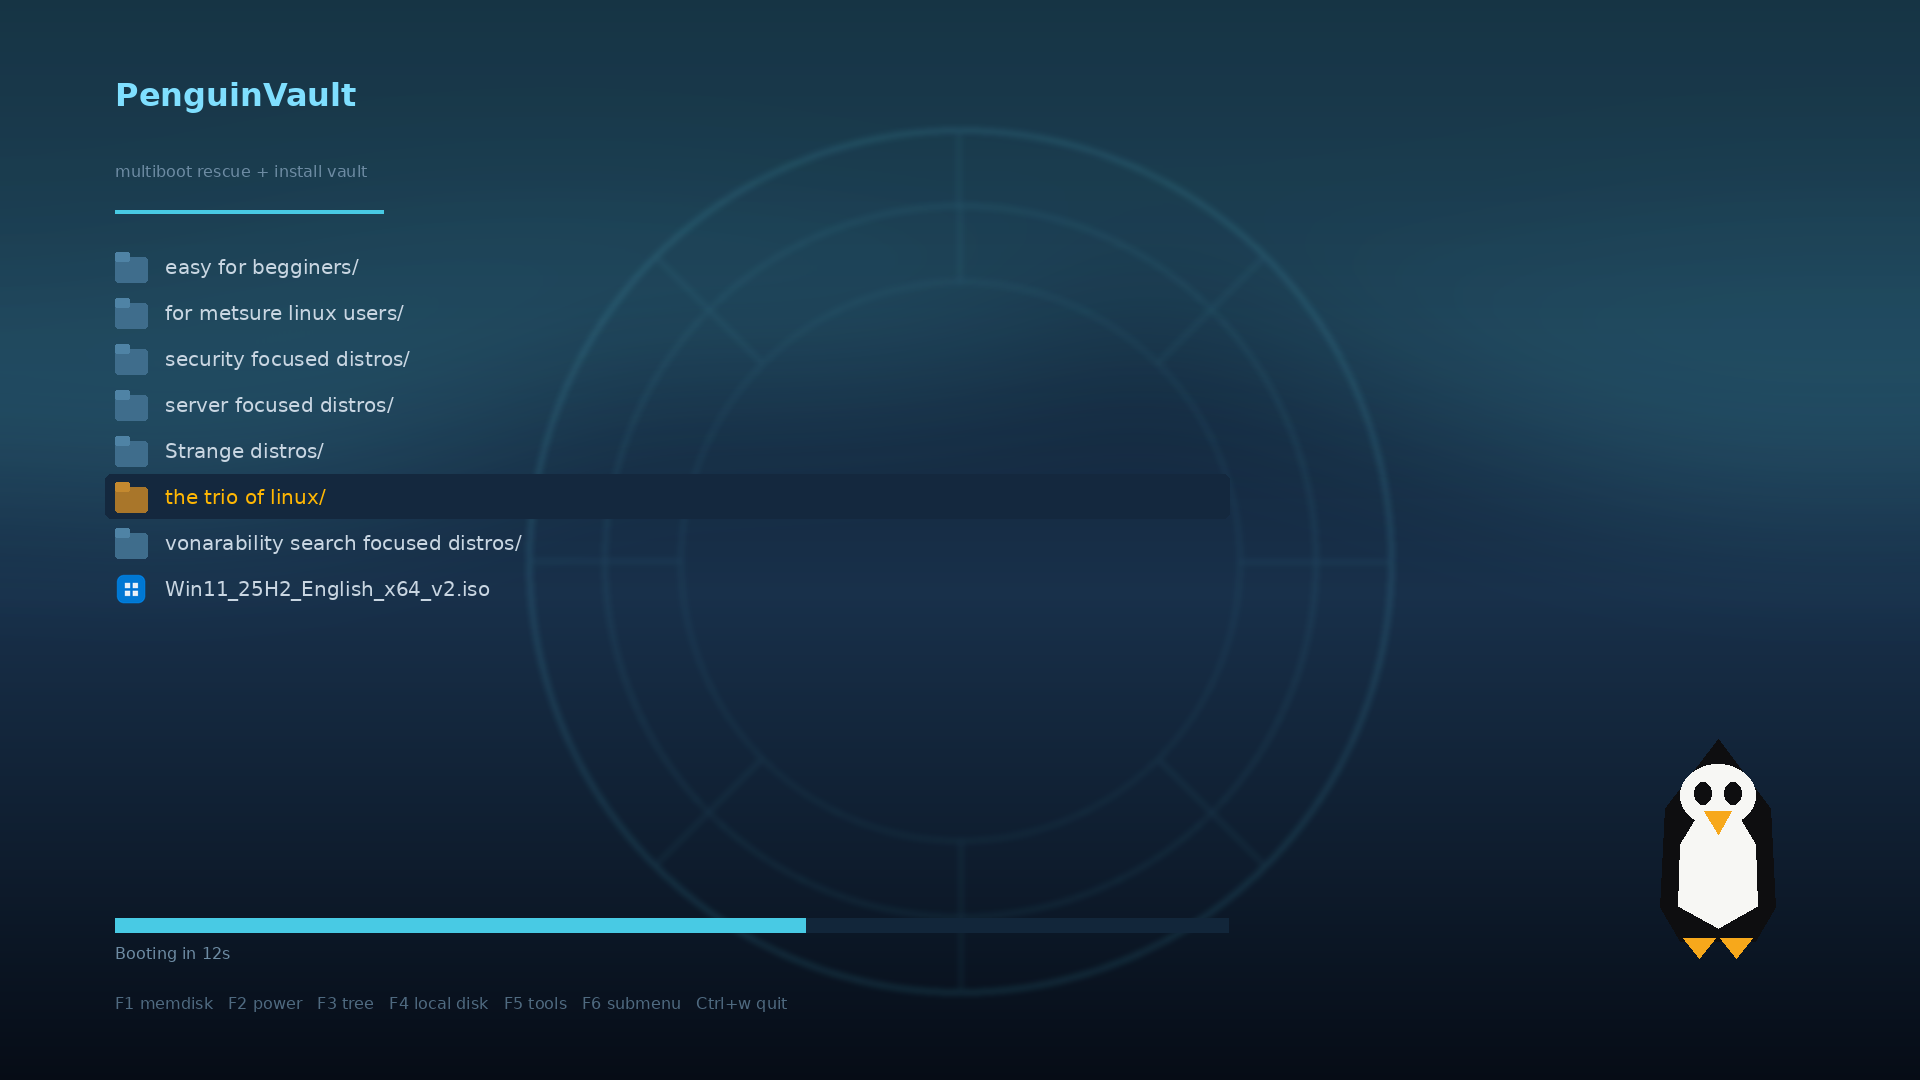
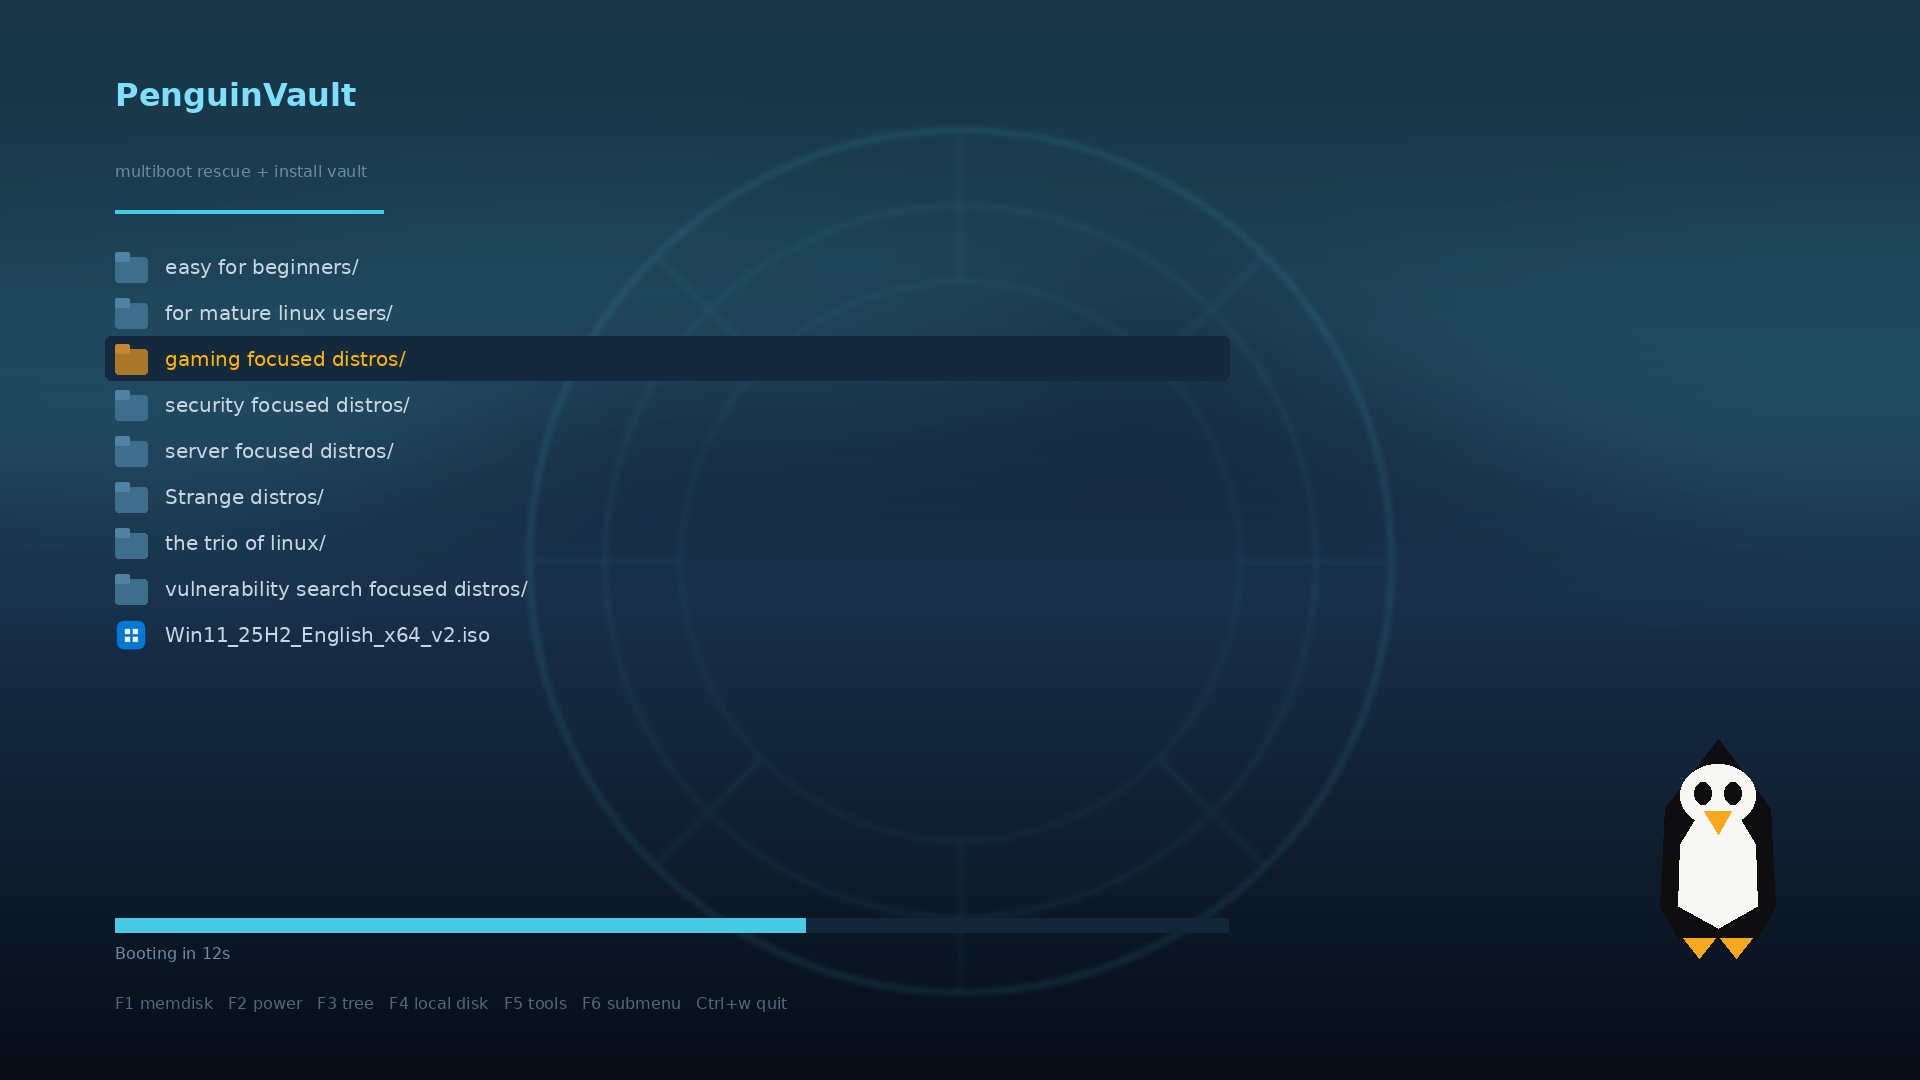
Add gaming distros, NTFS conversion, SteamOS fetcher; fix folder-name typos
Gaming: a gaming-focused set, all AMD/Intel builds rather than the
vendor-driver spins, since proprietary drivers can be layered on after
install — CachyOS (SHA256 verified), PikaOS Nest KDE (upstream publishes
no checksum, so verified by ISO9660 magic and boot signature instead),
and Bazzite stable amd64 (SHA256 verified). Five new icons and the
matching menu_class rules.

SteamOS needed its own script. Valve publishes no ISO: the download is a
bzip2-compressed raw disk image meant for Rufus/Etcher, which Ventoy
cannot boot compressed. fetch-steamos.sh streams the download through the
decompressor so the 3 GB archive is never stored, watches free space and
aborts rather than filling the drive, and sanity-checks the result's size
and 0x55AA boot signature — Valve publishes no checksum to verify against.
Since SteamOS 3.8 that image installs on generic PCs, with an AMD GPU.

convert-to-ntfs.sh: exFAT caps volume labels at 11 characters, so
'PenguinVault' (12) can only ever be the label on NTFS. The script copies
the partition off, checksums it, reformats, restores, verifies against the
manifest, and reapplies the theme — never deleting the staging copy, so a
failure at any stage still leaves a full verified copy.

Typos: make_preview.py had the drive's misspelled folder names baked in
('begginers'). Corrected there and on the drive itself
(vonarability -> vulnerability, begginers -> beginners, metsure -> mature).
Repo now passes codespell.

Changed region(s): [[0.0312, 0.275, 0.4375, 0.6111]]

diff --git a/scripts/make_icons.py b/scripts/make_icons.py
@@ -217,6 +217,42 @@ def chrome_o(d, col=INK):
     d.ellipse([C - rr, C - rr, C + rr, C + rr], fill=col)
 
 
+def chevrons(d, col=INK):
+    """Speed chevrons — CachyOS, the performance-tuned Arch."""
+    w = int(S * SS * 0.075)
+    for off in (-0.16, 0.06):
+        d.line([C - S * SS * 0.06 + S * SS * off, C - S * SS * 0.22,
+                C + S * SS * 0.14 + S * SS * off, C], fill=col, width=w)
+        d.line([C + S * SS * 0.14 + S * SS * off, C,
+                C - S * SS * 0.06 + S * SS * off, C + S * SS * 0.22], fill=col, width=w)
+
+
+def bolt(d, col=INK):
+    """Lightning bolt — PikaOS."""
+    s = S * SS
+    d.polygon([(C + s * 0.06, C - s * 0.30), (C - s * 0.18, C + s * 0.04),
+               (C - s * 0.01, C + s * 0.04), (C - s * 0.06, C + s * 0.30),
+               (C + s * 0.19, C - s * 0.06), (C + s * 0.01, C - s * 0.06)], fill=col)
+
+
+def valve_gear(d, col=INK):
+    """Ring with a piston bar — SteamOS."""
+    r = S * SS * 0.24
+    d.ellipse([C - r, C - r, C + r, C + r], outline=col, width=int(S * SS * 0.075))
+    d.line([C - r * 1.5, C, C - r * 0.6, C], fill=col, width=int(S * SS * 0.075))
+    d.line([C + r * 0.6, C, C + r * 1.5, C], fill=col, width=int(S * SS * 0.075))
+
+
+def crystal(d, col=INK):
+    """Faceted gem — bazzite is a mineral."""
+    s = S * SS * 0.28
+    d.polygon([(C, C - s), (C + s * 0.86, C - s * 0.30), (C + s * 0.54, C + s * 0.82),
+               (C - s * 0.54, C + s * 0.82), (C - s * 0.86, C - s * 0.30)], fill=col)
+    d.line([(C - s * 0.86, C - s * 0.30), (C + s * 0.86, C - s * 0.30)],
+           fill=(20, 20, 28, 160), width=int(S * SS * 0.035))
+    d.line([(C, C - s), (C, C + s * 0.82)], fill=(20, 20, 28, 120), width=int(S * SS * 0.03))
+
+
 def vault_lock(d, col=INK):
     r = S * SS * 0.26
     d.ellipse([C - r, C - r, C + r, C + r], outline=col, width=int(S * SS * 0.07))
@@ -251,6 +287,12 @@ ICONS = {
     "nyarch":        ((203, 116, 190), cat_ears),
     "veloguard":     ((45, 106, 120),  shield),
     "security":      ((45, 106, 120),  shield),
+    # gaming
+    "cachyos":       ((22, 137, 96),   chevrons),
+    "pikaos":        ((242, 190, 34),  bolt),
+    "steamos":       ((27, 40, 56),    valve_gear),
+    "bazzite":       ((124, 77, 196),  crystal),
+    "gaming":        ((88, 61, 148),   crystal),
     # Tux tiles are light so the black body reads; the rest stay dark.
     "linux":         ((226, 234, 241), penguin),
     "vtoyret":       ((38, 52, 70),    circle_o),

diff --git a/scripts/make_preview.py b/scripts/make_preview.py
@@ -37,16 +37,17 @@ def font(path, size):
 # Menu entries: (label, icon class). TreeMode shows directories as browsable
 # submenus, so the top level is folders — this mirrors that.
 ENTRIES = [
-    ("easy for begginers/", "dir"),
-    ("for metsure linux users/", "dir"),
+    ("easy for beginners/", "dir"),
+    ("for mature linux users/", "dir"),
+    ("gaming focused distros/", "dir"),
     ("security focused distros/", "dir"),
     ("server focused distros/", "dir"),
     ("Strange distros/", "dir"),
     ("the trio of linux/", "dir"),
-    ("vonarability search focused distros/", "dir"),
+    ("vulnerability search focused distros/", "dir"),
     ("Win11_25H2_English_x64_v2.iso", "windows"),
 ]
-SELECTED = 5
+SELECTED = 2
 
 if len(sys.argv) > 3 and os.path.isfile(sys.argv[3]):
     ENTRIES = []

diff --git a/README.md b/README.md
@@ -44,11 +44,20 @@ sudo ./scripts/apply.sh /run/media/$USER/Ventoy --label
 ```
 
 > **On the label:** exFAT and FAT cap volume labels at **11 characters**, and
-> `PenguinVault` is 12. On a stock Ventoy drive (exFAT) the volume is
-> therefore labelled **`PenguinVlt`**; only NTFS, which allows 32, gets the
-> full `PenguinVault`. This affects nothing but the name your file manager
-> shows — the boot menu reads "PenguinVault" either way, because that text
-> comes from the theme rather than the volume label.
+> `PenguinVault` is 12 — so on a stock Ventoy drive (exFAT) the volume can
+> only be labelled `PenguinVlt`. **NTFS** allows 32 characters and gets the
+> full `PenguinVault`; `apply.sh --label` picks the right one automatically
+> from the filesystem it finds.
+>
+> Ventoy supports NTFS for the data partition, and Linux reads and writes it
+> through the in-kernel `ntfs3` driver, so reformatting is a legitimate way
+> to get the full name — but it destroys the partition, so everything has to
+> be copied off and back. `scripts/convert-to-ntfs.sh` does that with
+> checksum verification at both ends.
+>
+> Either way this only affects the name your file manager shows. The boot
+> menu reads "PenguinVault" regardless, because that text comes from the
+> theme rather than the volume label.
 
 ### Build a fresh drive
 
@@ -113,6 +122,37 @@ copies of their logos: they stay readable at 32px, they share one visual
 language so the menu looks designed rather than assembled, and nothing here
 redistributes anyone's trademarked artwork. Adding one is a line in
 `ICONS` in `make_icons.py` and a rule in `apply.sh`.
+
+## Gaming images
+
+The gaming builds are all the **AMD/Intel** variants — the plain images with
+open drivers, not the vendor-driver spins. Proprietary NVIDIA drivers can be
+layered on after install if you need them.
+
+| | Image | Notes |
+|---|---|---|
+| CachyOS | `cachyos-desktop-linux-*.iso` | Performance-tuned Arch; dated snapshots, SHA256 published |
+| PikaOS | `PikaOS-Nest-KDE-*-amd64-*.iso` | Nest 4.0, KDE, the non-NVIDIA build |
+| Bazzite | `bazzite-stable-amd64.iso` | Fedora Atomic; the plain AMD/Intel KDE image, not `-nvidia` |
+| SteamOS | `SteamOS.img` | See below — not an ISO |
+
+`scripts/fetch-steamos.sh` exists because SteamOS is genuinely awkward:
+
+- Valve publishes no ISO. The download is a raw disk image,
+  `steamdeck-repair-latest.img.bz2`, meant to be flashed with Rufus/Etcher.
+  Since **SteamOS 3.8** (June 2026) that same image also installs on generic
+  PCs, provided you have an **AMD GPU** — NVIDIA support is slated for 2027.
+- It's bzip2-compressed, and Ventoy can't boot a `.bz2`, so it has to be
+  expanded to a raw `.img` first. Ventoy does boot `.img` files.
+- The archive doesn't declare its expanded size, so the script streams the
+  download straight through the decompressor and watches free space, aborting
+  cleanly instead of filling the drive.
+- Valve publishes no checksum for it, so unlike everything else here there's
+  nothing to verify it against. The script at least checks the result is a
+  plausible size and carries an `0x55AA` boot signature.
+
+If it won't boot from the Ventoy menu, that's the expected failure mode for a
+Deck-oriented disk image — flash it to its own stick instead.
 
 ## Notes on specific images
 
